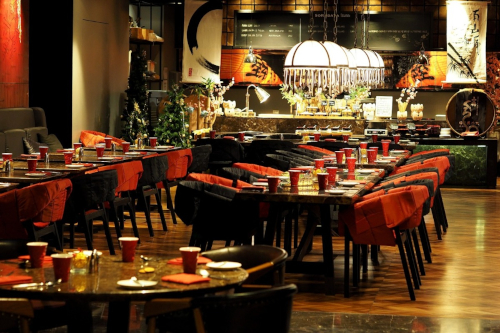
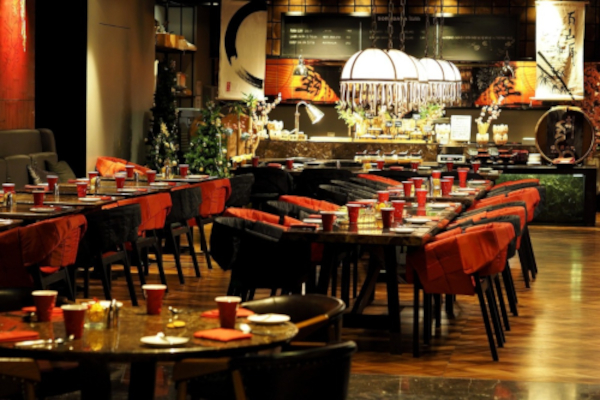
resized images

diff --git a/index.html b/index.html
@@ -38,8 +38,8 @@
             <div class="two">
                   <div class="a">
                         <img src= "images/restaurant.jpg" 
-                        alt= "Haukai Restaurant" width="600">
-                        <p></p>
+                        alt= "Haukai Restaurant" >
+                        
                   </div>
                   <div class="a">
                         <p>At <em>Haukai Restaurant</em> we specialise in bringing you delicious Ma&omacr;ri kai.  Based in the beautiful Bay of Islands

diff --git a/css/style.css b/css/style.css
@@ -135,3 +135,10 @@ footer {
     
 }
 
+@media only screen and (max-width: 400px) {
+    
+    img {
+      max-width: 100%;
+    }
+  }
+
